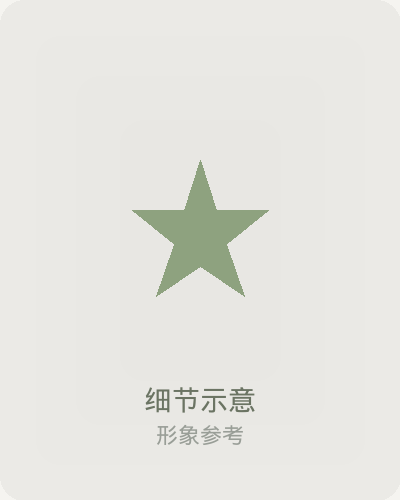
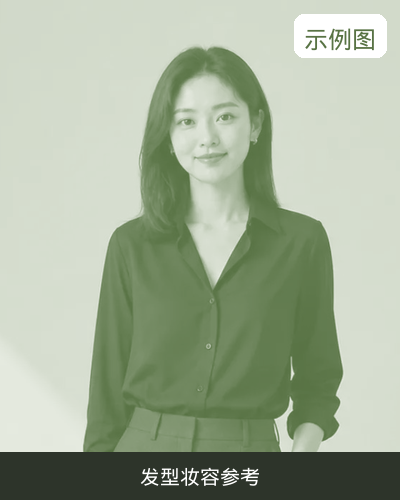
feat(miniapp): 重新设计占位图为品牌双色调示例图并优化图片闪屏
- 占位图改为基于示例照的品牌绿双色调处理，保留穿搭美感
  同时通过统一色调和“示例图”角标明确不是真实用户照片
- smart-image 增加全局已加载缓存，已加载过的图片再次显示时
  直接呈现真实图，避免切回页面时从占位图重新淡入造成的闪屏

diff --git a/appearance-coach-prototype/miniapp/components/smart-image/index.js b/appearance-coach-prototype/miniapp/components/smart-image/index.js
@@ -1,3 +1,5 @@
+const loadedSrcs = new Set()
+
 Component({
   options: { addGlobalClass: true },
   properties: {
@@ -8,18 +10,34 @@ Component({
     placeholderMode: { type: String, value: 'aspectFill' }
   },
   data: { loaded: false, error: false },
+  lifetimes: {
+    attached() {
+      this.tryFastLoad(this.data.src)
+    }
+  },
   observers: {
     src(newSrc) {
-      if (!newSrc) {
-        this.setData({ loaded: false, error: false })
-        return
-      }
-      // Reset loaded state when source changes so the placeholder shows again.
-      this.setData({ loaded: false, error: false })
+      this.tryFastLoad(newSrc)
     }
   },
   methods: {
-    onLoad() { this.setData({ loaded: true, error: false }) },
-    onError() { this.setData({ loaded: true, error: true }) }
+    tryFastLoad(src) {
+      if (!src) {
+        this.setData({ loaded: false, error: false })
+        return
+      }
+      if (loadedSrcs.has(src)) {
+        this.setData({ loaded: true, error: false })
+      } else {
+        this.setData({ loaded: false, error: false })
+      }
+    },
+    onLoad() {
+      loadedSrcs.add(this.data.src)
+      this.setData({ loaded: true, error: false })
+    },
+    onError() {
+      this.setData({ loaded: true, error: true })
+    }
   }
 })
